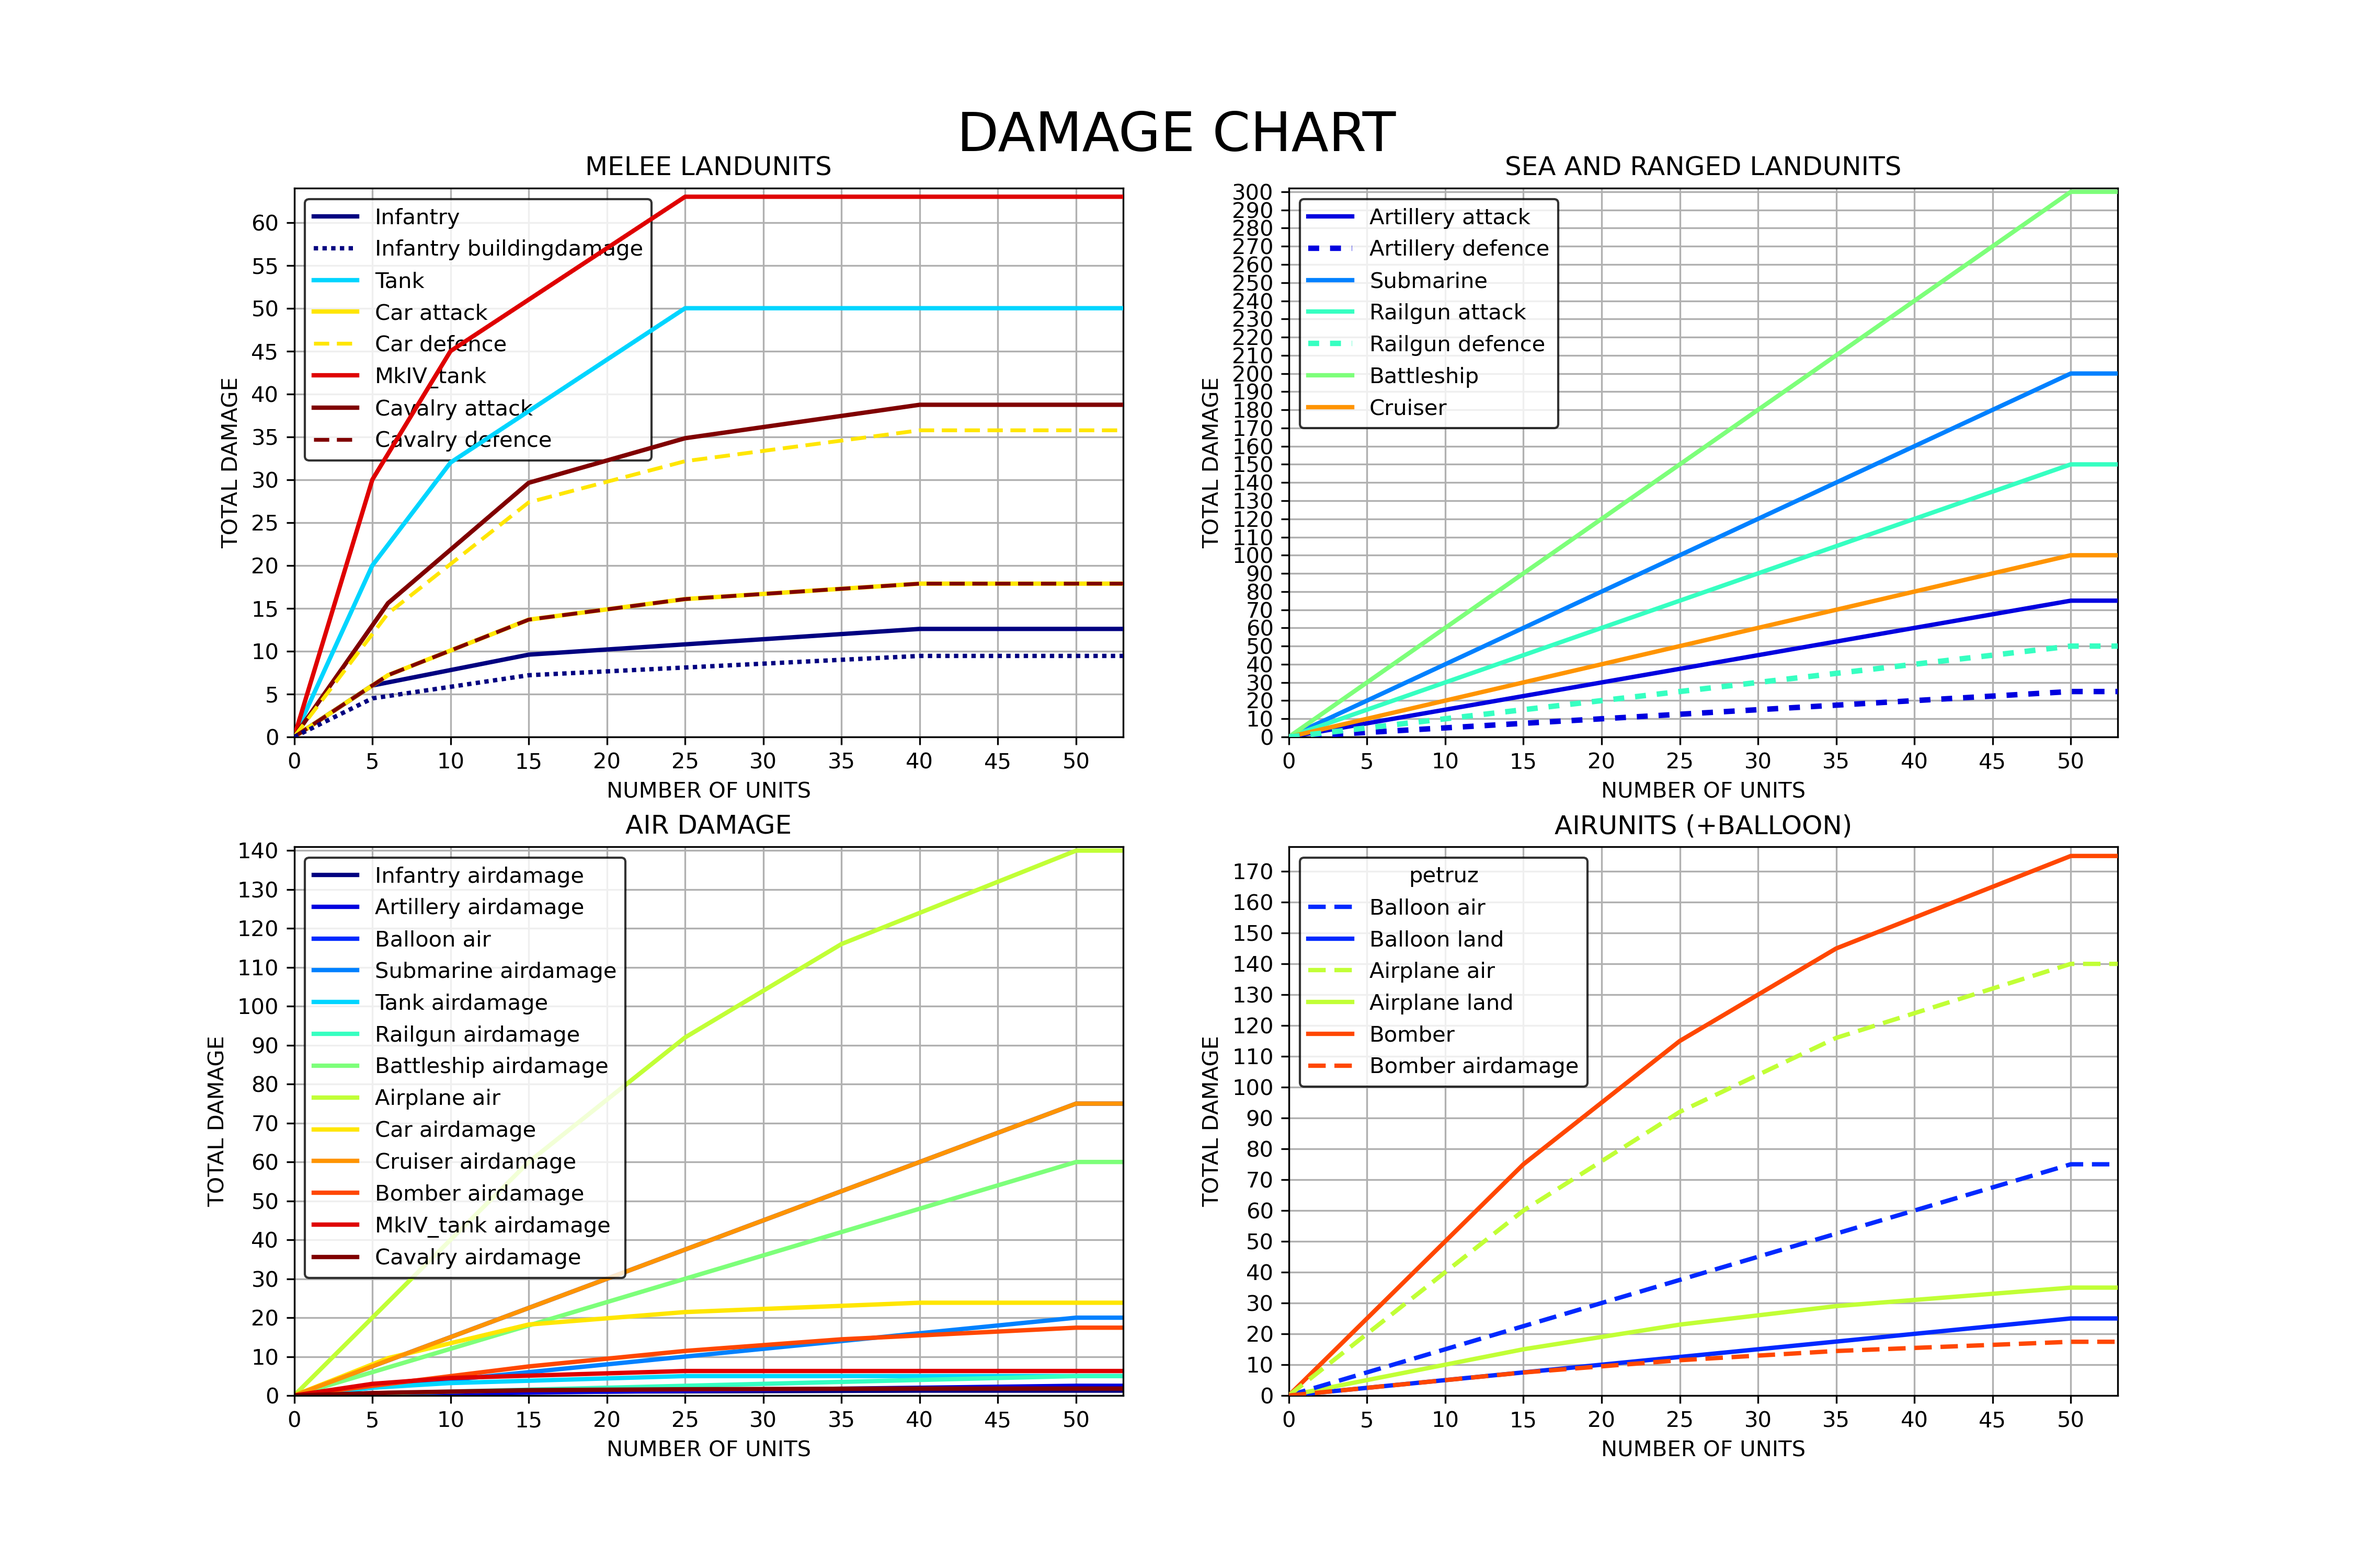
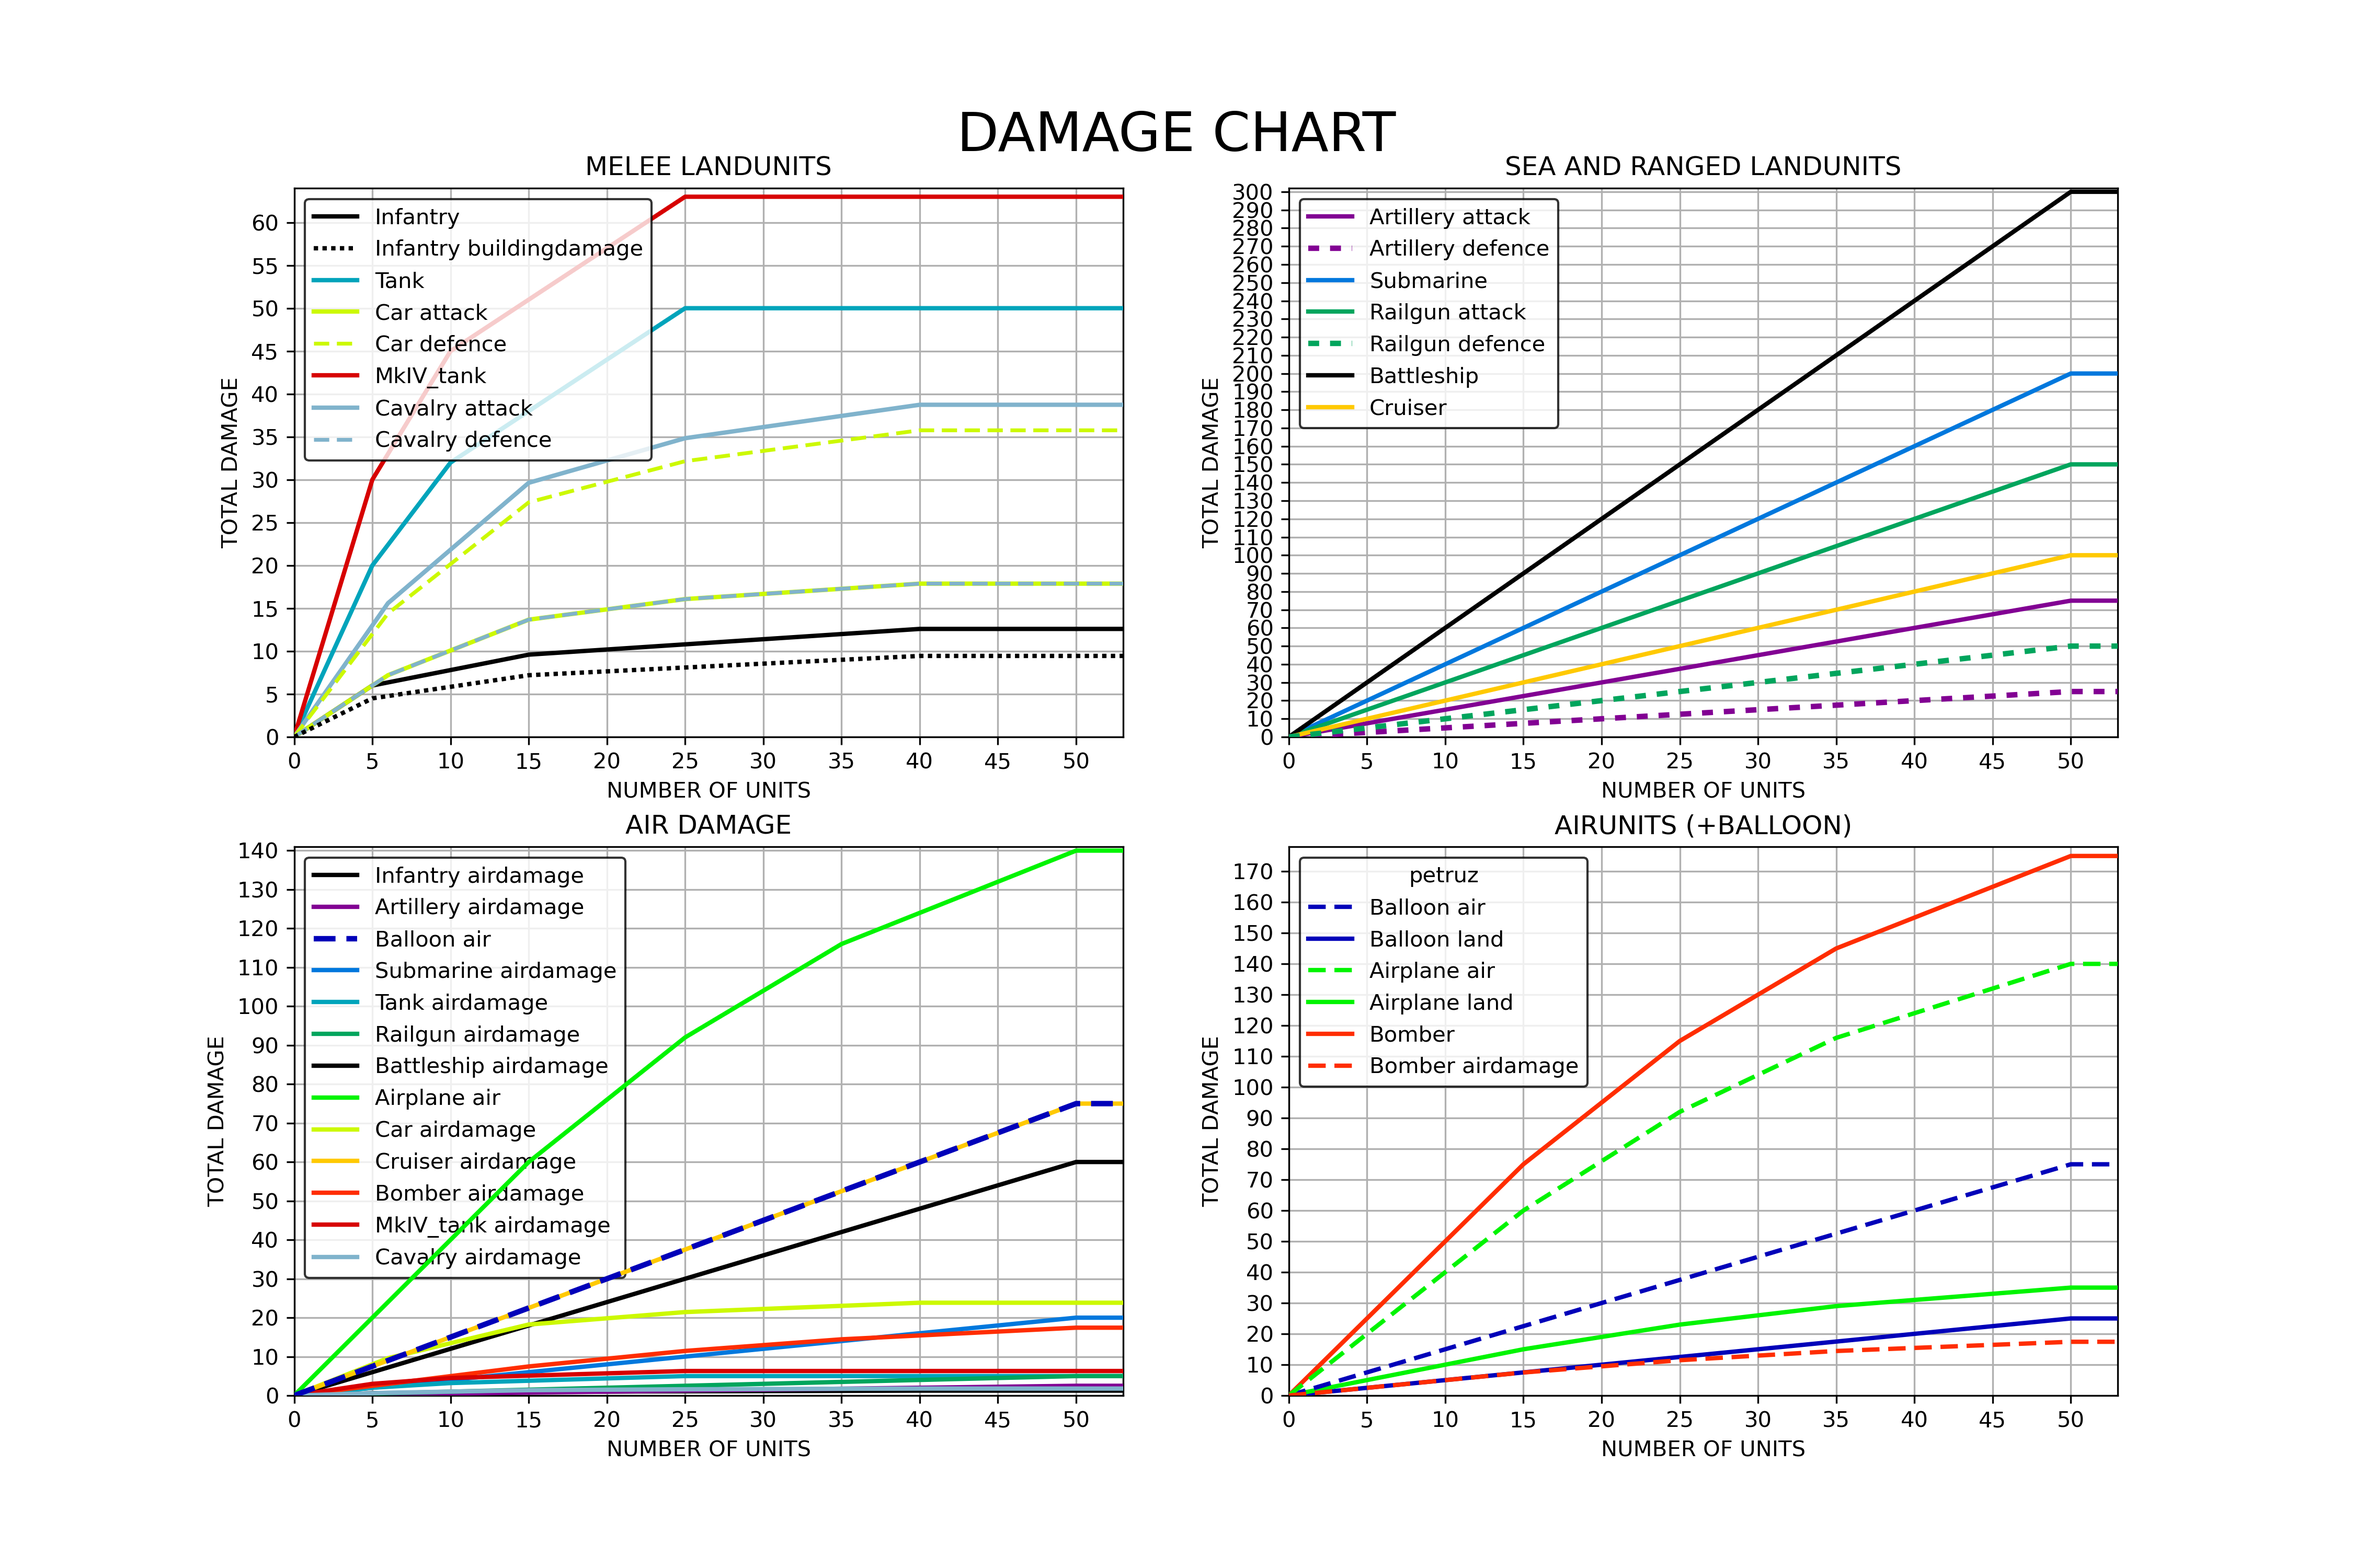
'betterdamageplot'

diff --git a/units/damage/sizeFactors.py b/units/damage/sizeFactors.py
@@ -28,7 +28,11 @@ def createPlot():
     fig, ((ax1, ax2), (ax3, ax4)) = plt.subplots(2, 2, figsize= (15,10), facecolor='lightgrey')
     fig.suptitle('damage chart'.upper(), fontsize=25, y = 0.93)
 
-    color1 = iter(plt.cm.jet(np.linspace(0, 1, len(NameToSizeFactor))))
+    a = plt.cm.nipy_spectral(np.linspace(0, 1, len(NameToSizeFactor)))
+    a[6] = np.array([0,0,0,1])
+    a[-1] = np.array([0.5, 0.7, 0.8, 1])
+    color1 = iter(a)
+
     colorDict = {}
     for key in NameToSizeFactor.keys():
         colorDict[key] = next(color1)
@@ -50,7 +54,7 @@ def createPlot():
                     ax1.plot(x, y, linewidth=2, color=colorDict[index], zorder=30, dashes= [1,1])
                     names1.append(name)
                 else:
-                    ax1.plot(x, y, linewidth=2, color=colorDict[index], zorder=10)
+                    ax1.plot(x, y, linewidth=2, color=colorDict[index], zorder=3)
                     names1.append(name)
 
             if index in [1,3,9,6,5] and 'air' not in name:
@@ -68,6 +72,7 @@ def createPlot():
                 if 'air' in name:
                     ax4.plot(x, y, linewidth=2, color=colorDict[index], dashes = [4,2], zorder=20)
                     names4.append(name)
+
                 elif 'def' in name:
                     ax4.plot(x, y, linewidth=1.75, color=colorDict[index], dashes = [4,2], zorder=20)
                     names4.append(name)
@@ -76,7 +81,11 @@ def createPlot():
                     names4.append(name)
 
             if 'air' in name:
-                ax3.plot(x, y, linewidth=2, color=colorDict[index])
+
+                if 'Balloon' in name:
+                    ax3.plot(x, y, linewidth=2.5, color=colorDict[index], dashes = [4,2], zorder = 11)
+                else:
+                    ax3.plot(x, y, linewidth=2, color=colorDict[index], zorder= 10)
                 names3.append(name)
 
 
